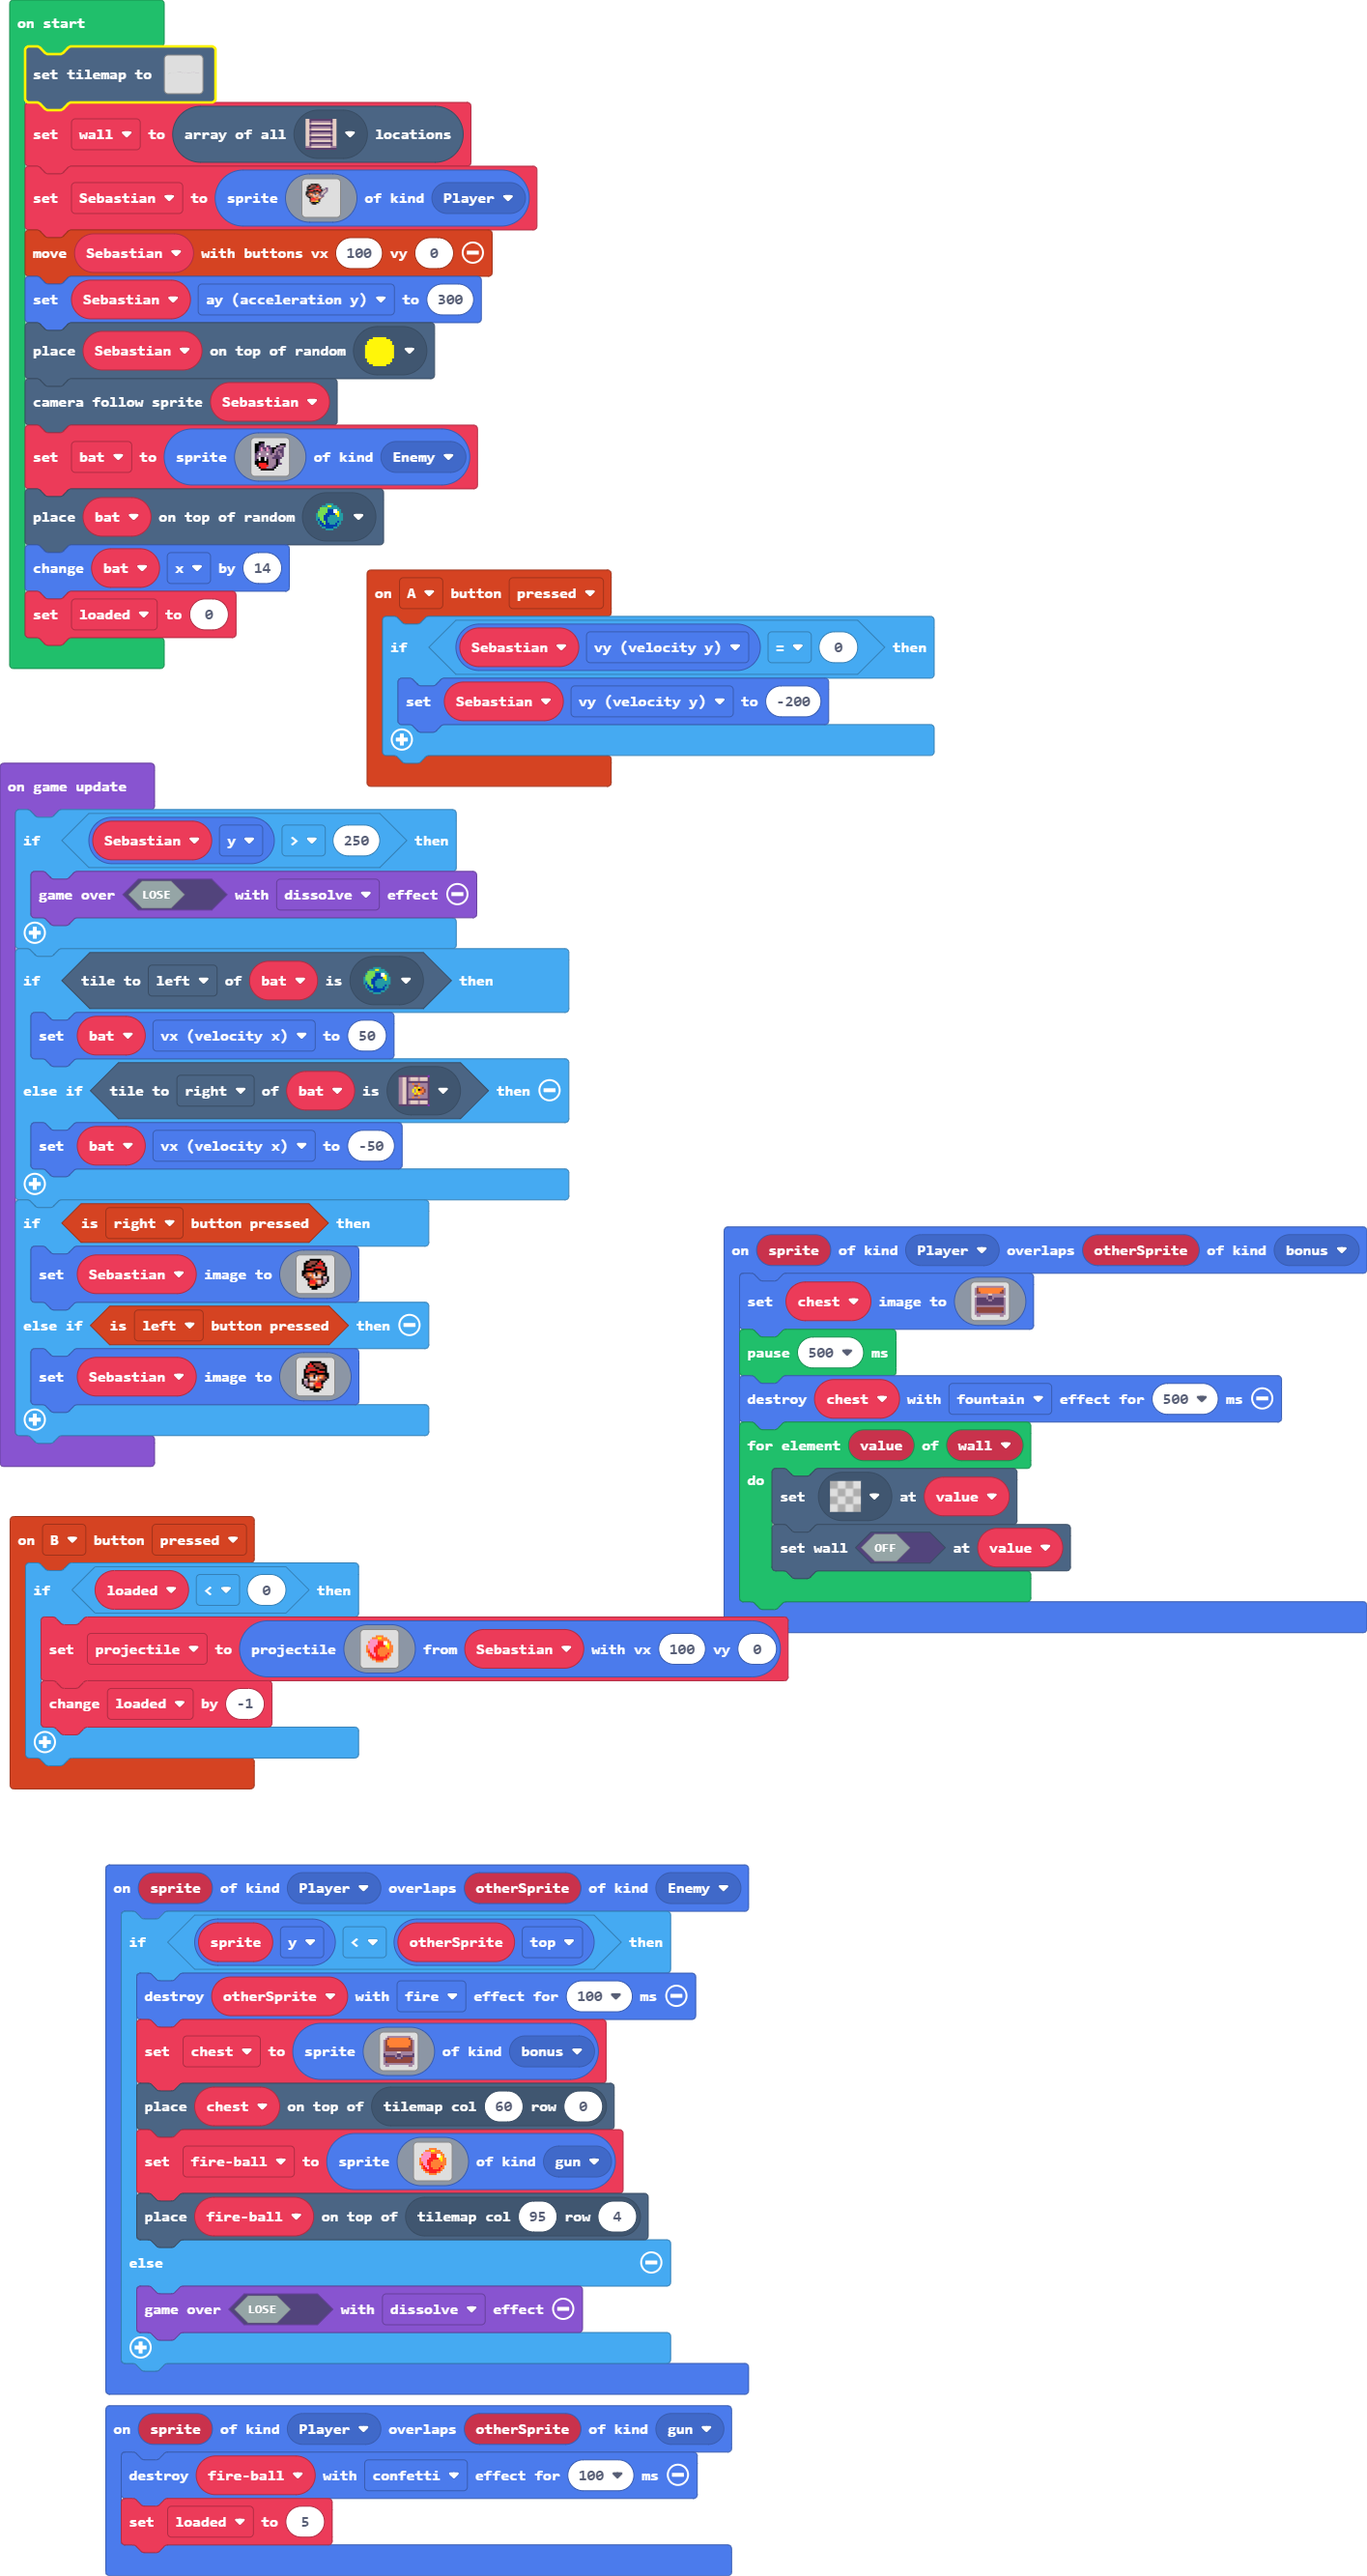
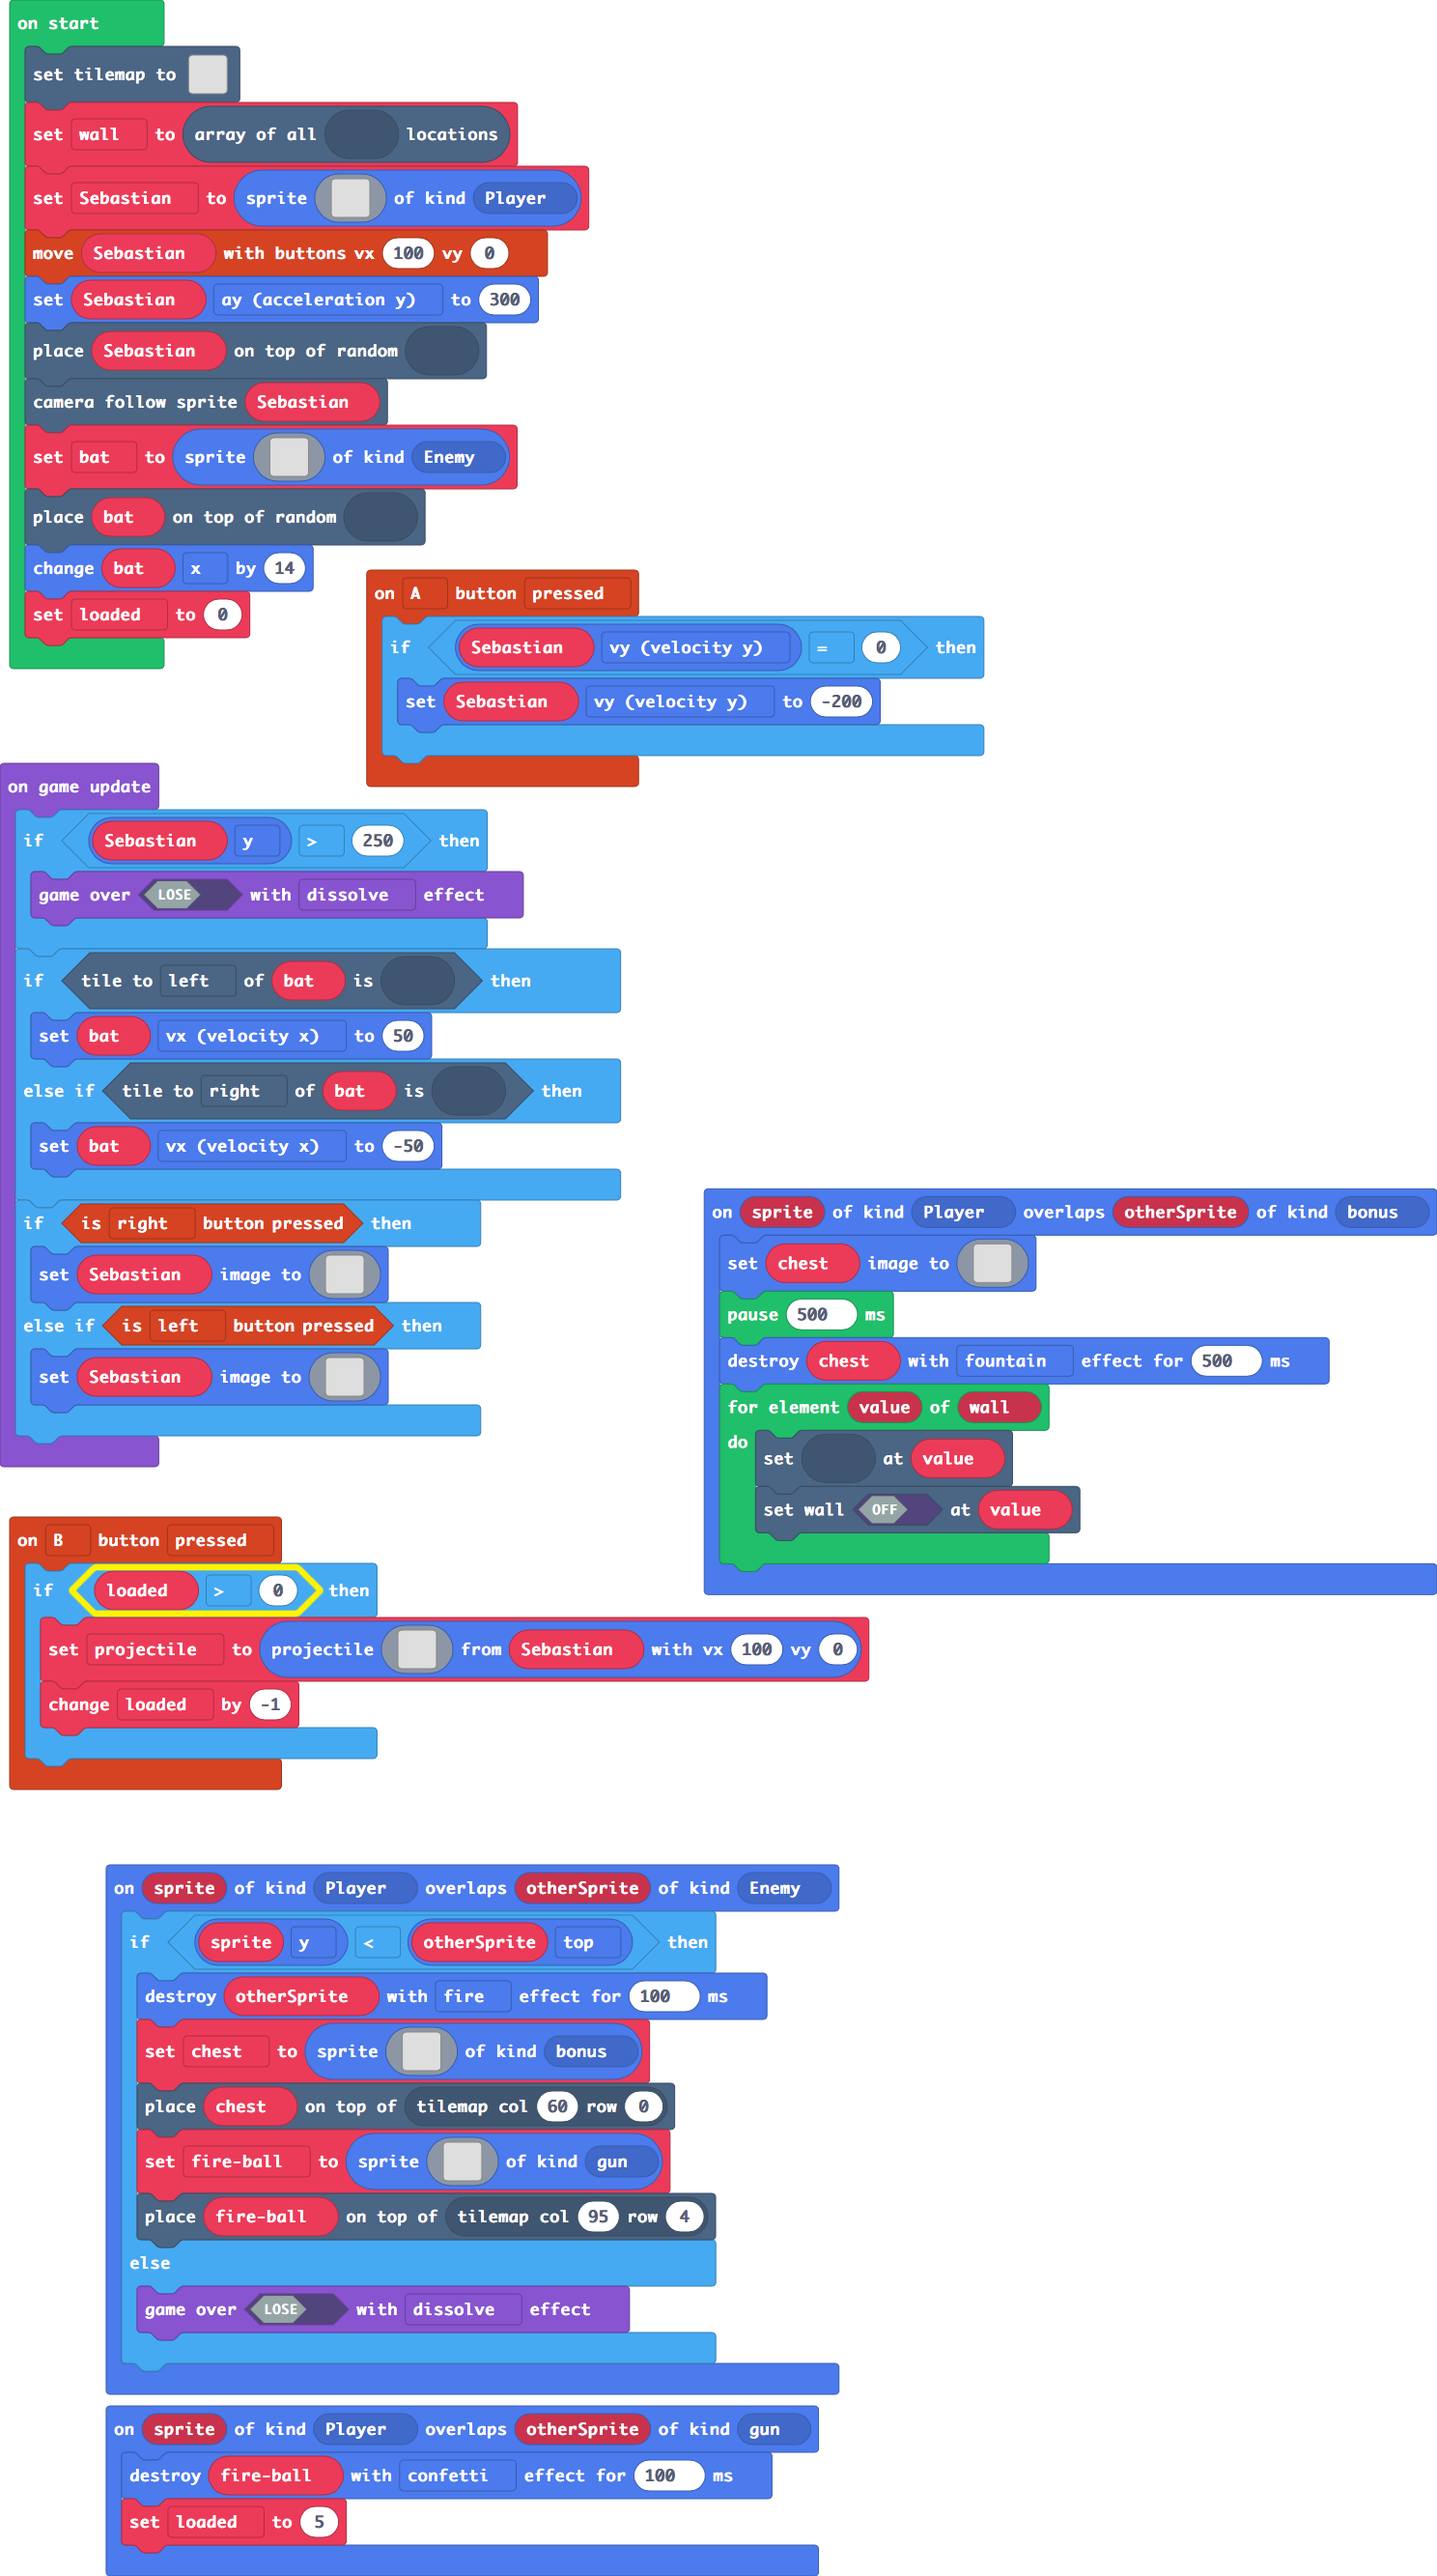
Fix an error in fireball

Changed region(s): [[0.0, 0.4359, 1.0, 1.0], [0.0, 0.0, 0.6219, 0.5604], [0.1555, 0.8717, 0.1866, 0.9029]]

diff --git a/main.ts b/main.ts
@@ -3,7 +3,7 @@ namespace SpriteKind {
     export const gun = SpriteKind.create()
 }
 controller.B.onEvent(ControllerButtonEvent.Pressed, function () {
-    if (loaded < 0) {
+    if (loaded > 0) {
         projectile = sprites.createProjectileFromSprite(img`
             . . . . . . . . . . . . . . . . 
             . . . . . . 4 4 4 4 . . . . . . 
